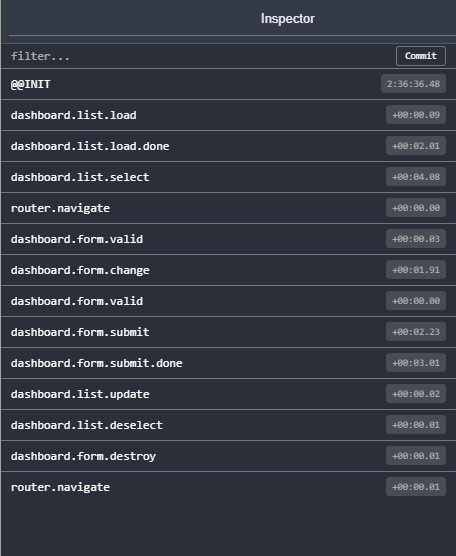
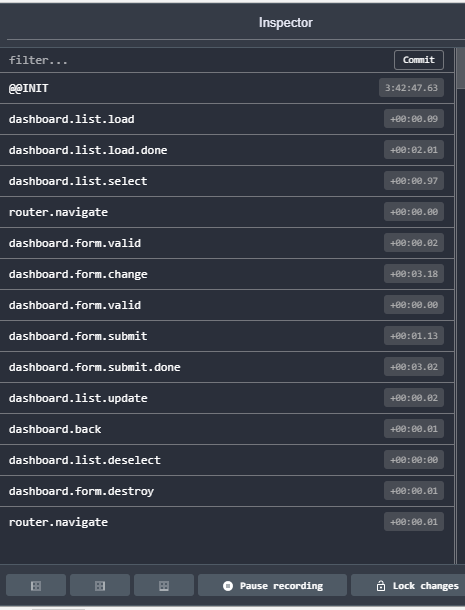
*update README.md

Changed region(s): [[0.0, 0.0, 1.0, 1.0]]

diff --git a/README.md b/README.md
@@ -31,9 +31,7 @@ import { EffectsService } from 'redux-effects-promise';
 ...
 @provide(DashboardListEffects)
 export class DashboardListEffects {
-
-	@lazyInject(DI_TYPES.Api) protected api: IApi;
-
+	...
 	@EffectsService.effects('dashboard.list.load')
 	loadProducts(): Promise<IProduct[]> {
 		return this.api.loadProducts();
@@ -53,9 +51,7 @@ import { EffectsAction, EffectsService } from 'redux-effects-promise';
 ...
 @provide(DashboardFormEffects)
 export class DashboardFormEffects {
-
-	@lazyInject(DI_TYPES.Api) protected api: IApi;
-
+    ...
 	@EffectsService.effects('dashboard.form.submit')
 	saveProduct(action: AnyAction, state: IAppState): Promise<EffectsAction[]> {
 		return this.api.saveProduct(action.data)
@@ -63,17 +59,18 @@ export class DashboardFormEffects {
 				return [
 					EffectsAction.create('dashboard.form.submit.done', result),
 					EffectsAction.create('dashboard.list.update', action.data),
-					EffectsAction.create('dashboard.list.deselect'),
-					EffectsAction.create('router.navigate', '/dashboard')
+					EffectsAction.create('dashboard.back', action.data)  // Parameter1=action.data
 				];
 			});
 	}
 
 	@EffectsService.effects('dashboard.back')
-	back(action: AnyAction, state: IAppState): EffectsAction[] {
+	back(): EffectsAction[] {
+		// A inheriting of the parameters works finely so input parameter
+		// "Parameter1" would pass within an action = { type: ..., data: ..., initialData: Parameter1 }
 		return [
-			EffectsAction.create('router.navigate', '/dashboard'),
-			EffectsAction.create('dashboard.list.deselect')
+			EffectsAction.create('dashboard.list.deselect'),
+			EffectsAction.create('router.navigate', '/dashboard')
 		];
 	}
 }
